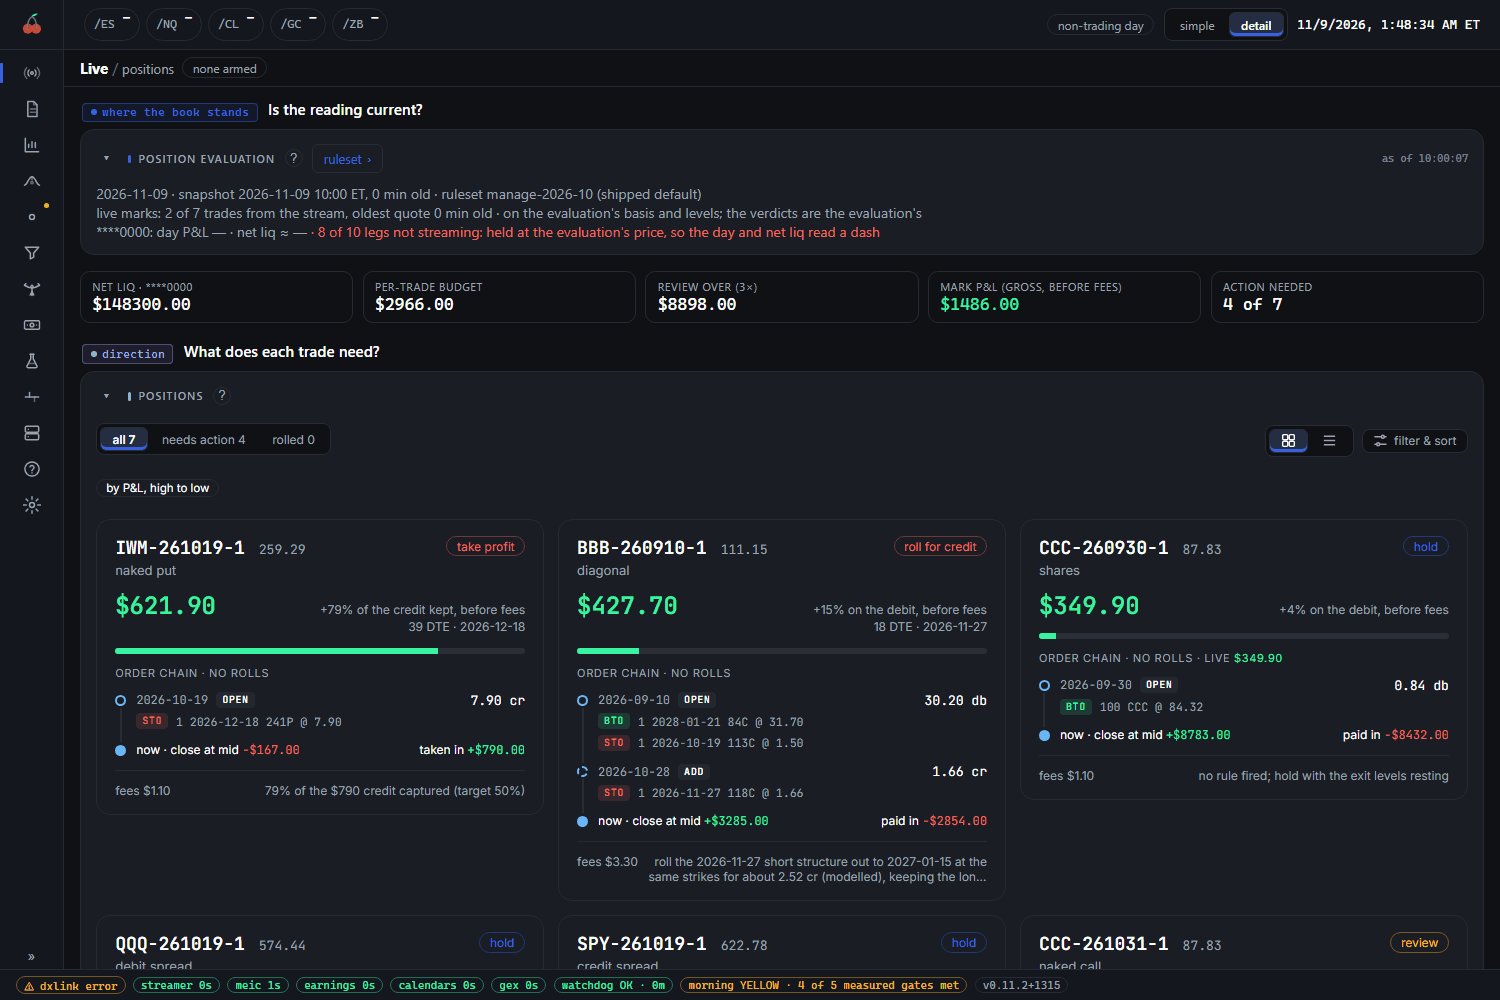
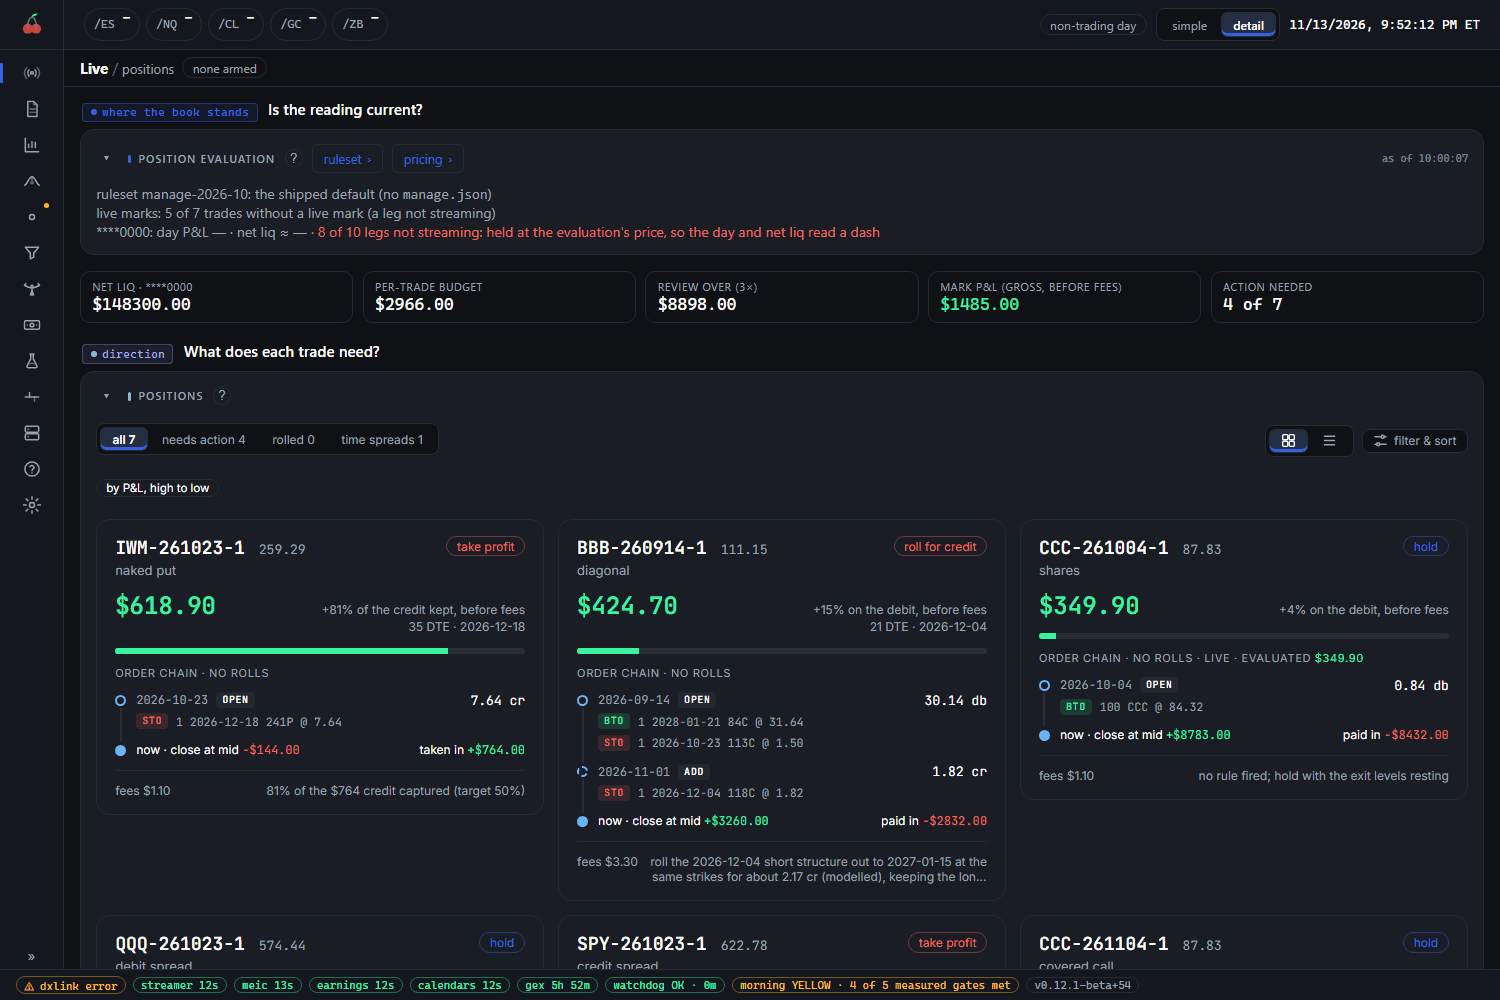
release: name v0.13.0, evidence and accounts
Step 2 and 3 of docs/releasing.md. The changelog section folds in the Unreleased entry and the v0.12.1 beta, with a fresh Unreleased above it; the manifest gains the v0.13.0 entry (no migrations). Guide screenshots live-today, live-positions and live-wheel retaken.

diff --git a/CHANGELOG.md b/CHANGELOG.md
@@ -11,17 +11,131 @@ beyond the latest release.
 
 ## [Unreleased]
 
+## v0.13.0 — 2026-11-13 — evidence and accounts
+About 45 pull requests since v0.12.0, and it includes everything in the v0.12.1 beta (delta ideas, the
+PMCC-only tab, the wheel tab's state choice). The suite can now read a second broker login beside the
+first, and manage judges a cash account or IRA by its own buying-power caps instead of the margin
+table. Manage's rules carry an evidence grade where they carried a confidence number, and it learned
+covered calls, the super bull, wheel puts by intent and a few time-exit corrections. Earnings times
+come from Yahoo's calendar where Nasdaq's refuses. A new package, `ensemble`, holds a rules engine for
+short-dated option arms; it is backtest-only and nothing in it is switched on. This is an ordinary
+upgrade from v0.12.0 (or from the beta); there is nothing to do by hand.
+
+### Upgrading
+
+- **From v0.12.0 or the v0.12.1 beta:** `python packages/orchestrator/run.py upgrade` (or
+  `upgrade.cmd` / `./upgrade.sh`). It refuses while a live loop is armed or holds a position, as every
+  upgrade does. Afterwards run `python run.py supervise --restart` and restart any resident job (a job
+  reads its config only when it starts), and restart the console to load its new server code.
+- **Nothing is required by hand, and no data migrates.** A second broker login is off until you add
+  one; the example configs gain only optional keys.
+- **manage.json: `confidence`, `hold` and `conflict_penalty` are gone.** Each rule now has an
+  `evidence` grade. A leftover `confidence` is reported as an unknown key and ignored; delete it when
+  convenient. Reasons and rule ties can read differently (below).
+- **Cash accounts and IRAs** are held to new buying-power caps (80% in total, and so on). Set
+  `portfolio.buying_power.cash.enabled` to false in manage.json to keep the VIX table for such an
+  account.
+- **Earnings times** come from Yahoo's calendar where Nasdaq answers 403. This needs `yfinance`
+  (already a technicals dependency); without it the fallback is skipped and listed as failed.
+- **Measurement boundaries:** manage's verdicts and caps moved on 2026-11-10 to 2026-11-13 (table in
+  the detail). Do not pool a manage figure across them.
+
 ### What's new
 
-- **Buying power on a cash account or IRA.** Such an account holds each short put's full strike and
-  each spread's max loss, and neither grows when the market moves, so manage no longer holds it to the
-  VIX table written for margin. It is held to 80% in total (the rest kept free to sell after a
+- **A second broker login across the suite (#1037).** Add one under `broker.logins` in `config.json`
+  (`run.py connect --login NAME`; the installers offer it). Each login has its own keyring entry, its
+  own streamer producer (`streamer.instances`), and MEIC can have a live account per login
+  (`live_accounts.<login>` in meic.json). The orchestrator reads, alerts on and settles each login's
+  accounts, manage judges every account on its own history, and the console names and reads each
+  login's own account. Off by default: with no extra login the job table is unchanged, and an extra
+  login's live account stays off until its own gate, enable and arm are set.
+- **An account select on Live (#1041).** With more than one account, positions, portfolio, wheel and
+  pmcc draw the first account by default, another by name, or all. The choice is `?acct=` in the
+  address and holds across the tabs. The Live head now shows only what qualifies the reading (#1044).
+- **Evidence grades replace confidence (#1040).** A rule is graded mechanics, tested, contested,
+  practice or ours, by the kind of evidence behind it, and `RULE_ORDER` (safety, sizing, stops, targets,
+  time, rolls) breaks ties between rules naming the same action. The console and the Discord post show
+  the grade. The credit stop and the untested-side roll are `contested`.
+- **Buying power on a cash account or IRA (#1026).** A cash account holds each short put's full strike
+  and each spread's max loss, neither of which grows when the market moves, so manage no longer holds
+  it to the VIX table written for margin. It is held to 80% in total (the rest kept free to sell after a
   volatility spike), with short puts at their strikes plus shares under 65% of net liq and the other
   trades' buying power under 35%. A new rule, `portfolio.stress`, flags SPY −20% with IV up 10 points
   costing over 20% of net liq. The income list, the hedge and the trade model size against the same
   caps, and Live → portfolio's room card lists each part. Margin accounts, and accounts of unknown kind,
   keep the VIX table. The caps are in `portfolio.buying_power.cash`; `enabled: false` restores the VIX
   table for a cash account.
+- **manage learned more shapes and cases.**
+  - Covered calls (short calls the shares cover) are no longer called naked; `covered_call.assigned`
+    judges an in-the-money one by its call-away (#1033).
+  - Wheel puts by intent: a short put on a name with `intent: "wheel"` is judged by `wheel.tested`
+    (roll, close or take assignment) rather than the credit stop (#1034). Live → wheel lists the short
+    puts with no intent, with both verdicts, and asks whether each is a wheel; the choice is staged and
+    saved in Config → Position rules → Intents (#1035, #1036).
+  - Super bull and super bear (diagonal) are named before the diagonal test, and directional trades
+    get their own time exit, `directional.time_exit`, off by default (#1043).
+  - A diagonal's target is capped at 75% of its modelled gain (`debit.take_profit.max_gain_cap`), the
+    PMCC long is flagged for rolling at 60 days left (was 120), and `short_term_short_days` is 21
+    (was 14) (#1033, #1034).
+  - The wheel tab keeps to the wheel's own legs, not every trade on its names (#1017).
+- **The v0.12.1 beta's changes**, folded in: the portfolio tab's **ideas** button (what drives your
+  delta and the rolls that would move it, each priced; a PMCC rolled under its own rules), put
+  calendars' rolls quoted from the broker, the PMCC tab holding PMCCs only with a **time spreads**
+  filter on positions, the wheel tab's state choice, cards or rows on the wheel and PMCC tabs, and live
+  prices on the wheel, PMCC, positions and portfolio tabs (#1018 to #1021).
+- **Earnings times keep coming (#1030).** Nasdaq's calendar has answered 403 since 2026-11-09 and the
+  times file went empty. Every date it does not answer is now read from Yahoo's calendar; the file
+  records each date's source, and a run that gets nothing writes nothing, so the last good file stays.
+- **Console.** Guide screenshots expand on a click and the guide reads on a tablet and a phone (#1013);
+  the futures ticker fits small screens (#1014); a silent DXLink session is rebuilt overnight (#1015); a
+  sleeping tab no longer strobes the tick flash on waking (#1016); every order's legs are drawn in the
+  shape of the structure, puts before calls from the lowest strike up (#1032).
+- **Fixes.** A config save no longer fails with "changed on disk" because the browser rounded the
+  file's mtime (#1039). The hourly status digest shows the real accounts, lists switched-off modules
+  once as `off:` and says plainer things (#1047). Weeklyput's SPX plus SPY pair is held on purpose, so
+  the same-index lint allows that one pair (#1048).
+- **A new package, `packages/ensemble` (#1052).** A rules engine for short-dated option arms: an arm is
+  configuration and one pure function decides. Paper-only and credential-free, with no loop, ledger,
+  config or console page yet, so it does nothing on an install. It serves research item 75, whose
+  backtest driver is in `packages/backtest` (#1053).
+- **Research.** Items 70 to 75 were declared (a dividend-yield put, LEAPS as leverage, MEIC on XSP by
+  stop and width, one to three 14:00 condors, the super bull as leverage, the ensemble's rules). Item 72
+  failed, so the margin login's XSP live account stays off; item 68 dropped NDX before any P&L was read.
+  Verdicts and declarations are in `research/`.
+
+### In detail
+
+**Measurement boundaries.** manage's verdicts are advice, but a series of them breaks here.
+
+| Area | Date | What it splits |
+|---|---|---|
+| manage | 2026-11-10 | The cash-account buying-power caps judge a cash account or IRA (#1026). Margin and unknown-kind accounts are unchanged. |
+| manage | 2026-11-13 | Wheel puts by intent, the capped diagonal target, the PMCC long's roll at 60 days, covered calls, `short_term_short_days` 21 and the expiry rules for earnings trades and for trades opened inside three days of expiry (#1033, #1034). On 25 stored sessions seven verdicts changed, each an earnings trade now held through its report. |
+| manage | 2026-11-13 | Evidence grades replace confidence (#1040): actions were identical on 25 stored sessions; 2 of 300 trade-days show a different reason under the same CLOSE. |
+| manage | 2026-11-13 | Super bull and bear are named before the diagonal test, and directional trades lose the credit 21-day exit (#1043). |
+| manage | 2026-11-13 | A second login's trade is numbered per login (`-2`), where a single-login history numbered across logins (#1037). |
+| Earnings times | 2026-11-09 | The times file was empty from here until the Yahoo fallback (#1030); names it could not time lost their time of day in between. |
+
+**manage**
+
+- Snapshot and rule changes are in What's new; config keys are in `packages/manage/config.example.json`
+  (`evidence` on each rule, `covered_call`, `directional.time_exit`, `debit.take_profit.max_gain_cap`,
+  `expiry.wait_if_entered_inside`, `portfolio.buying_power.cash`, `portfolio.delta_ideas`).
+- The README cites item 53 for trades opened inside 21 days: no challenger beat the current rules
+  (#1049).
+
+**Broker logins**
+
+- New keys: `broker.logins` and `streamer.instances` in `config.json`, `live_accounts` in `meic.json`.
+  MEIC `tt --login` reads another login. A live account that never traded gets no job. Reconcile leaves
+  dust positions out, and the watchdog no longer calls a producer with nothing to stream stalled.
+- The orchestrator's account tests use invented digits (#1038).
+
+**Backtest**
+
+- An XSP dataset beside QQQ and NDX (`XSP-60s-wide.db`), a single progress bar for a fetch and its VIX
+  pass, and open-interest plan alias `SPXW-1D` (#1027, #1028, #1053). Vendor data stays under
+  `~/.cherrypick`.
 
 ## v0.12.1-beta — 2026-11-10 — moving delta
 The first beta: a pre-release to try before v0.12.1. `upgrade` and the version chip will not offer
